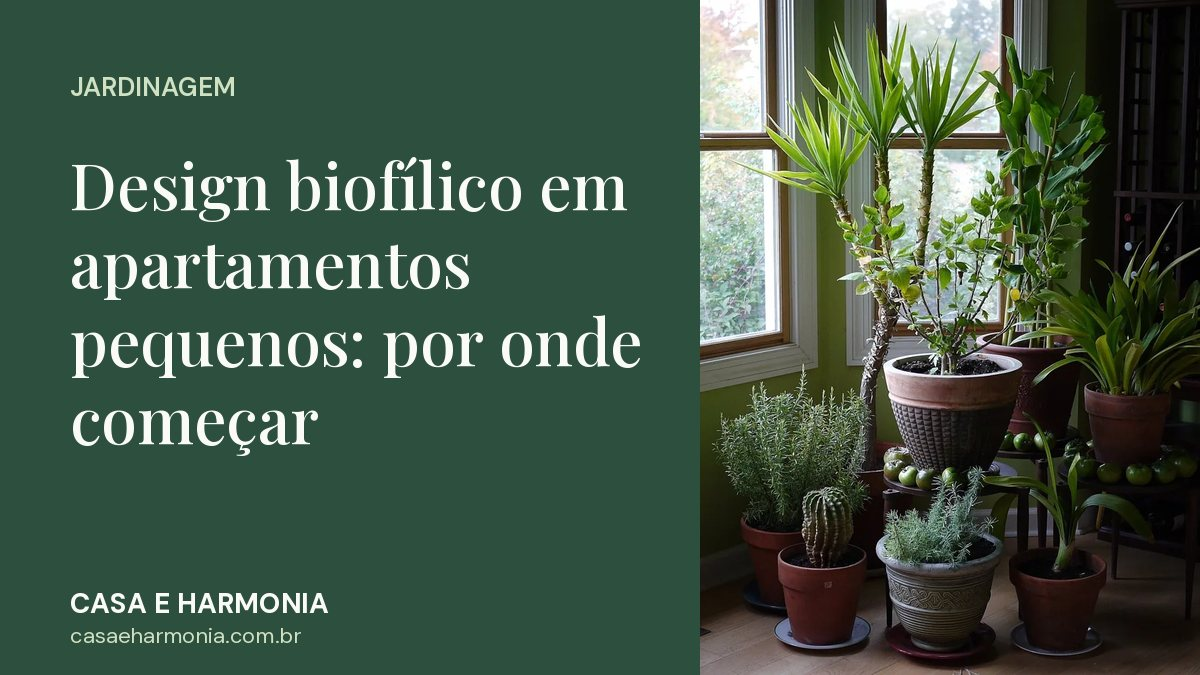
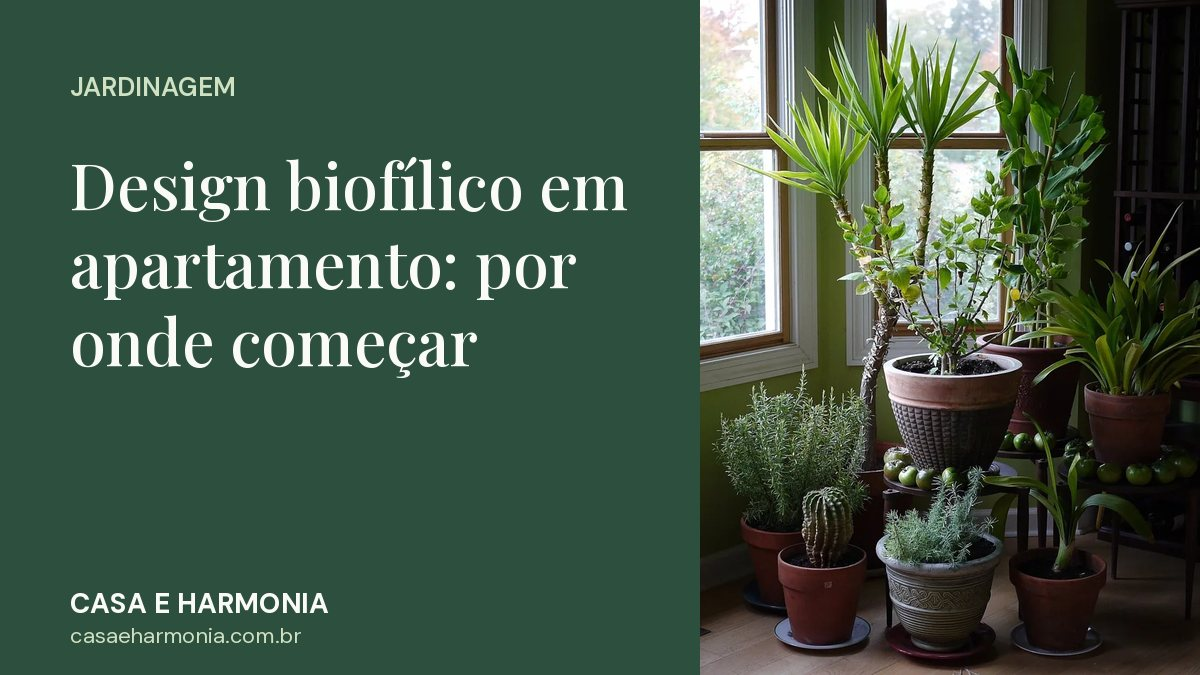
Fase 8: testes e auditoria
- tests.mjs: title ≤ 60 e description 120–155 sem … e únicos; canonical absoluta igual à URL; og:image local ≥ 1200 px e nunca o logo; zero links para /index.html; sitemap ↔ páginas indexáveis (sem priority, lastmod AAAA-MM-DD); URLs antigas preservadas; cada guia com ≥ 2 links de entrada de outros guias e ≥ 2 links contextuais; palavra-chave nas 100 primeiras palavras e em ≥ 2 H2; hubs e páginas de ferramenta completas, sem rating
- npm run audit (scripts/audit.mjs): title/description, palavras no <article>, links de entrada/saída e órfãs por página
- Imagens Open Graph regeneradas com os títulos finais
- README com a nova estrutura de URLs e comandos

Claude-Session: https://claude.ai/code/session_01TsEGyQ4t46o9CADV6PX2yG

Changed region(s): [[0.0617, 0.4667, 0.555, 0.56], [0.0617, 0.5911, 0.2775, 0.6844], [0.37, 0.3733, 0.4933, 0.4356]]

diff --git a/README.md b/README.md
@@ -1,6 +1,6 @@
 # Casa e Harmonia
 
-Portal estático em português: 23 guias, 31 dicas do dia a dia e 9 ferramentas, sem dependências de produção. Logo e fotografias originais recuperados da cópia local do projeto; as URLs dos 10 artigos existentes foram preservadas.
+Portal estático em português: 31 guias, 5 páginas-hub por tema, 20 ferramentas com página própria e 31 dicas do dia a dia, sem dependências de produção. Logo e fotografias originais recuperados da cópia local do projeto; as URLs dos 10 artigos existentes foram preservadas.
 
 ## Desenvolvimento e publicação
 
@@ -102,3 +102,18 @@ Para ligar o GA4 depois: (1) publique uma política de privacidade atualizada e 
 
 - `CONTATO_EMAIL=contato@exemplo.com.br npm run build` publica o e-mail em `/contato/`. Sem a variável, o build avisa e usa o canal público do GitHub.
 - Guias aceitam os campos opcionais `autor: { nome, bio }`, `revisor: { nome, bio }` e `revisado: "AAAA-MM-DD"`. Sem dados reais, a assinatura é "Redação Casa e Harmonia". Não preencha com pessoas fictícias.
+
+## Estrutura de URLs (auditoria de SEO, outubro de 2026)
+
+| URL | Conteúdo | Fonte |
+| --- | --- | --- |
+| `/` | Home | `build.mjs` |
+| `/artigos/{slug}.html` | 31 guias (URLs antigas preservadas) | `data/guias-originais.mjs`, `data/artigos.mjs`, `data/guias-dicas.mjs` |
+| `/guias/{tema}/` | 5 hubs por tema | `data/hubs.mjs` |
+| `/ferramentas/` e `/ferramentas/{slug}/` | Índice e 20 ferramentas | `data/ferramentas.mjs` + `js/ferramentas/{slug}.js` |
+| `/ferramentas.html` | 301 para `/ferramentas/` (âncoras antigas levam à ferramenta) | `.htaccess` + página noindex |
+| `/dicas.html`, `/sobre.html`, `/privacidade/`, `/contato/` | Páginas institucionais | `build.mjs` |
+
+Cada guia tem `desc` (120–155), `seo` (title ≤ 60, quando o H1 é longo), `kw`, `tema`, `cluster`, `relacionados`, `ferramentas`, `publicado` e `atualizado` (data real da última mudança de conteúdo, usada no sitemap). O build falha se title/description saírem do padrão, se uma foto se repetir ou se um hub/ferramenta apontar para guia inexistente.
+
+`npm run audit` imprime, por página, o tamanho de title e description, palavras no `<article>`, links de entrada e saída e o resumo de órfãs. `npm test` cobre cálculos, links internos, sitemap, canonical, og:image ≥ 1200 px, palavra-chave e links entre guias.
